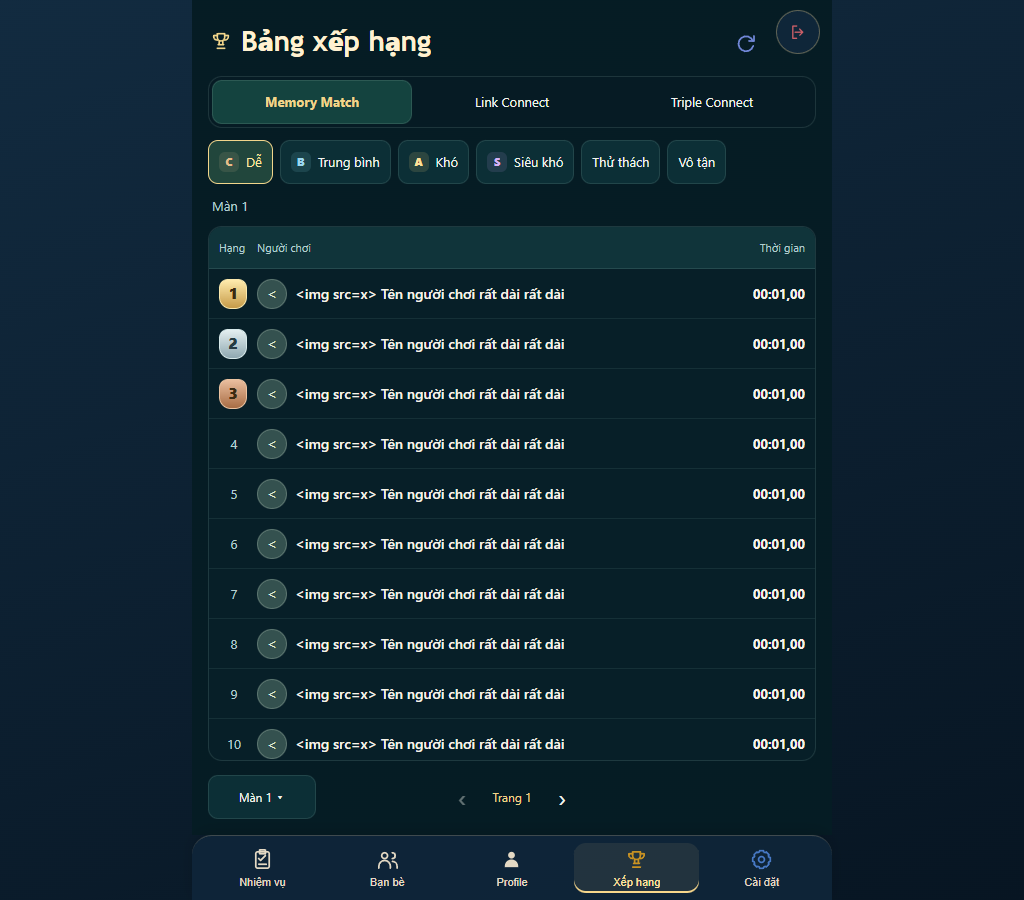
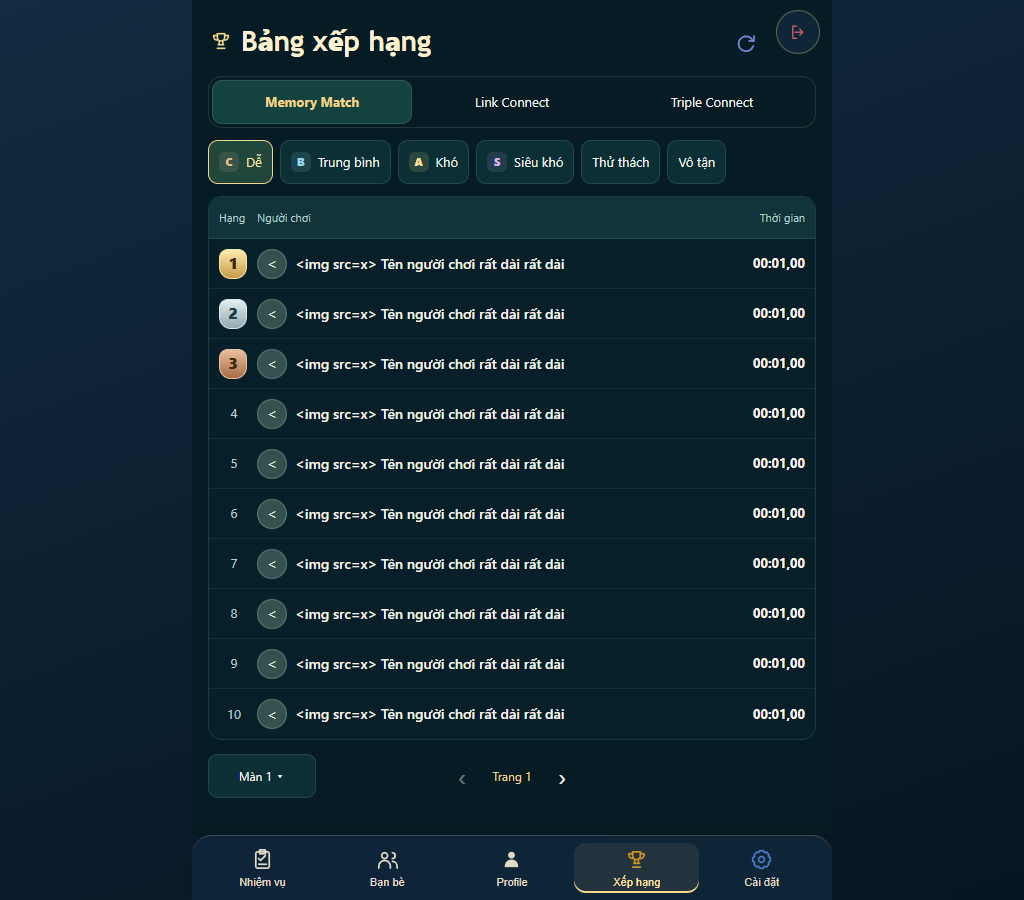
fix: remove duplicate leaderboard stage label

Changed region(s): [[0.1875, 0.2178, 0.5625, 0.9022], [0.7188, 0.2178, 0.7812, 0.84]]

diff --git a/js/leaderboardPanel.js b/js/leaderboardPanel.js
@@ -30,7 +30,6 @@ export function openLeaderboards(gameId, onClose, surface = {}) {
   const modes = tabs('Chế độ', [...GAME_MODES].sort((a, b) => (a.id === 'endless') - (b.id === 'endless')).map(item => [item.id, item.label]), 'mode');
   const filters = document.createElement('div'); filters.className = 'leaderboard-filters';
   const footer = document.createElement('div'); footer.className = 'leaderboard-footer';
-  const context = document.createElement('p'); context.className = 'leaderboard-context';
   const levelLabel = button(''); levelLabel.classList.add('leaderboard-level'); levelLabel.setAttribute('aria-label', 'Chọn màn');
   const level = { value: '1' };
   const refresh = button('Làm mới');
@@ -44,7 +43,7 @@ export function openLeaderboards(gameId, onClose, surface = {}) {
   next.setAttribute('aria-label', 'Sau'); next.textContent = '›';
   const pageLabel = document.createElement('span');
   pager.append(previous, pageLabel, next);
-  filters.append(levelLabel); footer.append(filters, pager); results.append(status); content.append(games, modes, context, results, own, footer);
+  filters.append(levelLabel); footer.append(filters, pager); results.append(status); content.append(games, modes, results, own, footer);
   const owner = surface.owner || getActiveGameScope() || getAppPageScope();
   const release = owner?.own(() => scope.dispose(), 'cleanup');
   const modal = openAppModal({ ...surface, id: 'rankings-modal', title: 'Bảng xếp hạng', icon: 'trophy', content, onDestroy: () => { generation++; scope.dispose(); release?.forget(); }, onClose });
@@ -61,8 +60,6 @@ export function openLeaderboards(gameId, onClose, surface = {}) {
     for (const item of modes.children) item.setAttribute('aria-pressed', String(item.dataset.rankMode === selectedMode));
     levelLabel.hidden = !NORMAL_MODE_IDS.includes(selectedMode);
     levelLabel.textContent = `Màn ${level.value} ▾`; levelLabel.title = `Màn ${level.value}`;
-    context.textContent = NORMAL_MODE_IDS.includes(selectedMode) ? `Màn ${level.value}` : '';
-    context.hidden = !NORMAL_MODE_IDS.includes(selectedMode);
   }
   function controls(data = null) {
     refresh.disabled = loading;

diff --git a/tests/ui/leaderboard-layout.spec.js b/tests/ui/leaderboard-layout.spec.js
@@ -43,21 +43,21 @@ test('stage picker confirms 212 once, rejects invalid input and returns focus on
   await input.fill('212');
   expect(await page.evaluate(() => window.rankRequests.length)).toBe(before);
   await input.press('Enter');
-  await expect(page.locator('.leaderboard-context')).toHaveText('Màn 212');
+  await expect(page.locator('.leaderboard-context')).toHaveCount(0);
   await expect(page.getByRole('button', { name: 'Chọn màn', exact: true })).toContainText('212');
   expect(await page.evaluate(() => window.rankRequests.at(-1))).toMatchObject({ level: 212, page: 1 });
   await page.getByRole('button', { name: 'Chọn màn', exact: true }).click();
   for (const invalid of ['0', '-1', '2.5', 'abc', '9007199254740991']) {
     await input.fill(invalid); await input.press('Enter');
     await expect(input).toHaveAttribute('aria-invalid', 'true');
-    await expect(page.locator('.leaderboard-context')).toHaveText('Màn 212');
+    await expect(page.getByRole('button', { name: 'Chọn màn', exact: true })).toContainText('212');
   }
   await input.press('Escape');
   await expect(page.locator('#leaderboard-stage-picker')).toHaveCount(0);
   await expect(page.getByRole('button', { name: 'Chọn màn', exact: true })).toBeFocused();
   await page.getByRole('button', { name: 'Chọn màn', exact: true }).click();
   await input.fill('9007199254740900'); await input.press('Enter');
-  await expect(page.locator('.leaderboard-context')).toHaveText('Màn 9007199254740900');
+  await expect(page.getByRole('button', { name: 'Chọn màn', exact: true })).toContainText('9007199254740900');
   expect(await page.evaluate(() => window.rankRequests.at(-1).level)).toBe(9007199254740900);
   await page.screenshot({ path: 'test-results/ranking-stage-picker-confirmed.png' });
 });

diff --git a/styles/leaderboard.css b/styles/leaderboard.css
@@ -39,8 +39,6 @@
 [data-rank-mode="normal"] .leaderboard-grade { background: #87cfe422; color: #9bd6ef; }
 [data-rank-mode="hard"] .leaderboard-grade { background: #ffdb8122; color: #ffe099; }
 [data-rank-mode="superHard"] .leaderboard-grade { background: #bc98e222; color: #d5b2f6; }
-.leaderboard-context { flex-shrink: 0; margin: 0; padding: 0 4px; font-size: 13px; color: var(--ranking-muted); }
-.leaderboard-context[hidden] { display: none; }
 .leaderboard-status { margin: 0; padding: 24px 12px; font-size: 13px; text-align: center; color: var(--ranking-muted); }
 .leaderboard-status:empty { display: none; }
 .leaderboard-results[data-offline="true"] .leaderboard-status { padding: 8px 12px; }

diff --git a/LEADERBOARD_REDESIGN_PLAN.md b/LEADERBOARD_REDESIGN_PLAN.md
@@ -15,6 +15,7 @@ Làm lại bảng xếp hạng theo phong cách Vườn đêm, nội dung dành 
 
 ## 2. Nguồn thiết kế và quyết định
 
+- Điều chỉnh sau nghiệm thu ngày2026-10-14 theo yêu cầu người dùng: bỏ nhãn Màn N phía trên bảng để không lặp; chỉ giữ nút chọn màn ở footer. Quyết định này thay phần nhãn ngữ cảnh đầu bảng trong thiết kế ban đầu bên dưới.
 - `docs/design/leaderboard/leaderboard-reference.png`: ảnh minh họa đã được người dùng đánh giá tốt hơn. Đây là tham chiếu mỹ thuật, không phải nguồn luật hoặc dữ liệu thật.
 - `docs/design/leaderboard/night-garden-background-master.png`: nền mới, không chứa UI/chữ, nguồn PNG để xuất bản runtime sau.
 - Điều chỉnh sau ảnh tham chiếu: chuyển ô chọn màn xuống cạnh phân trang; giữ phân trang ở giữa. Đặt nhãn nhỏ Màn N ở đầu bảng để vẫn nhận biết bảng đang xem.
